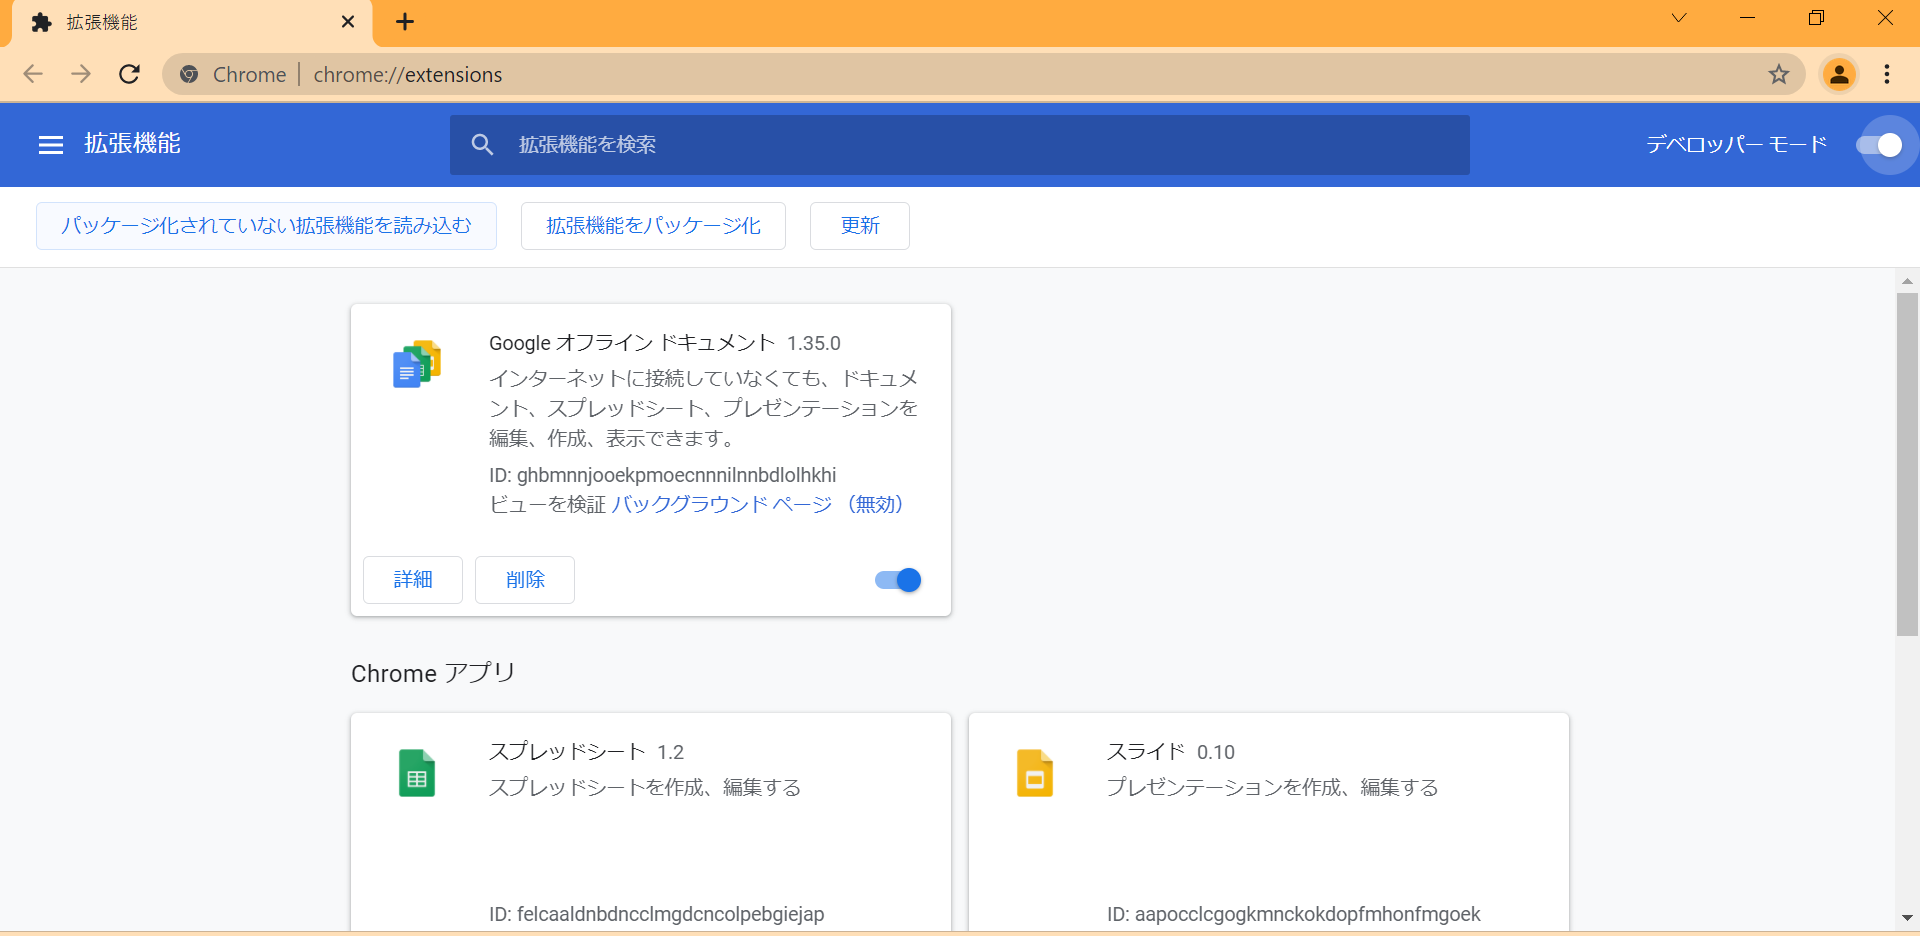
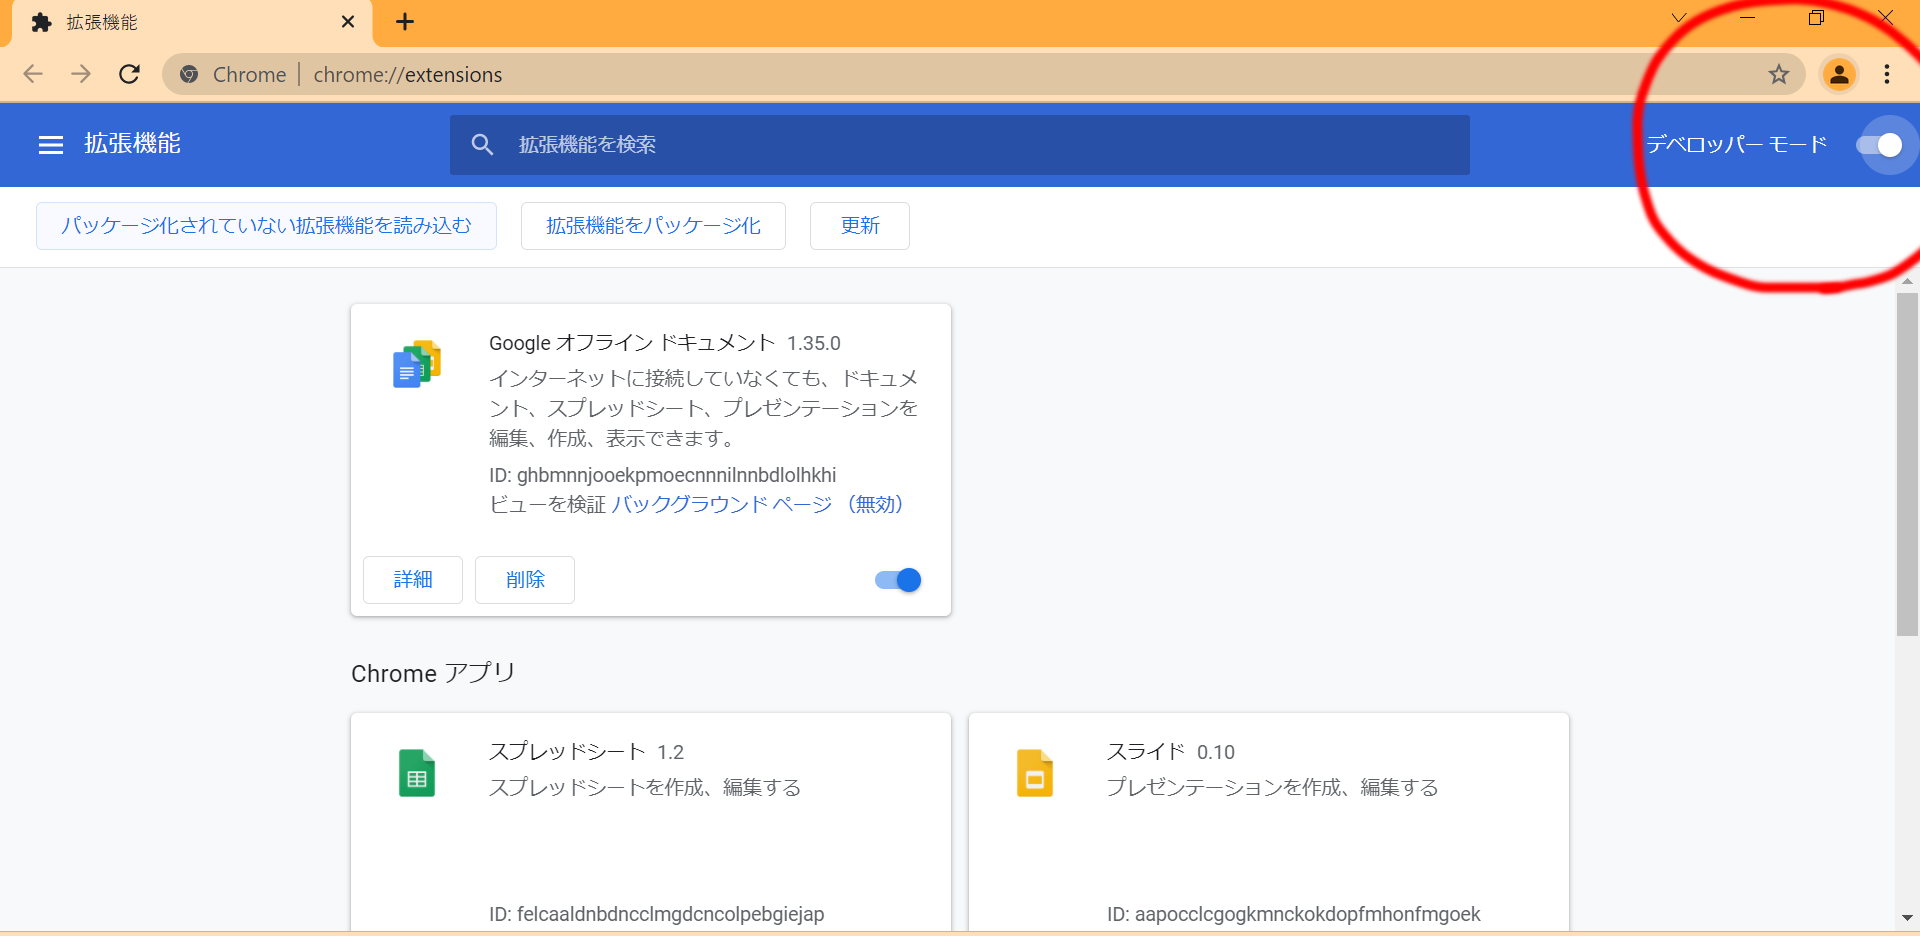
simplify the installation

Changed region(s): [[0.8438, 0.031, 1.0, 0.3408], [0.875, 0.0, 1.0, 0.062]]

diff --git a/README.md b/README.md
@@ -17,13 +17,11 @@ ZIPファイルをダウンロードします
 次に、Chromeを開き、アドレスバーに[chrome://extensions](chrome://extensions)と入力し、アクセスします。一番右にある３つ点が縦に並んだやつ→その他のツール→拡張機能でもいいです。 
 ![a](images/installation/photo_06.png)  
 以下の画面が開いたら、右上にあるデベロッパーモードをクリックして有効化してください  
+![a](images/installation/photo_08.png)  
+そして、先程展開したものをここにドラッグアンドドロップします  
 ![a](images/installation/photo_07.png)  
-そして、「パッケージ化されていない拡張機能を読み込む」をクリックして、
-![a](images/installation/photo_08.png)
-ダウンロードしたフォルダ内の**distフォルダ**を読み込みます  
-これで完了。おめでとう。  
 
-**Vivaldiの場合、Releasesにあるcrxファイルから簡単に拡張機能のインストールが可能です。ぜひ試してみてください。**  
+これで完了。おめでとう。  
   
 ## 使用方法
 講義ページを開くと、以下のように未提出または未回答の課題が表示されます。  
